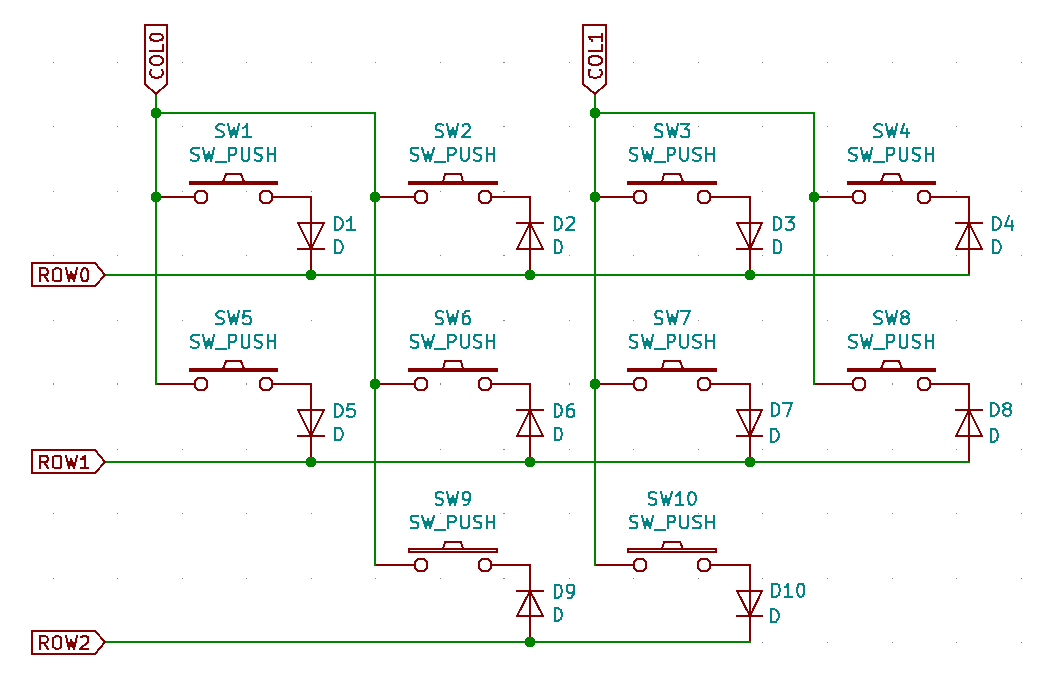
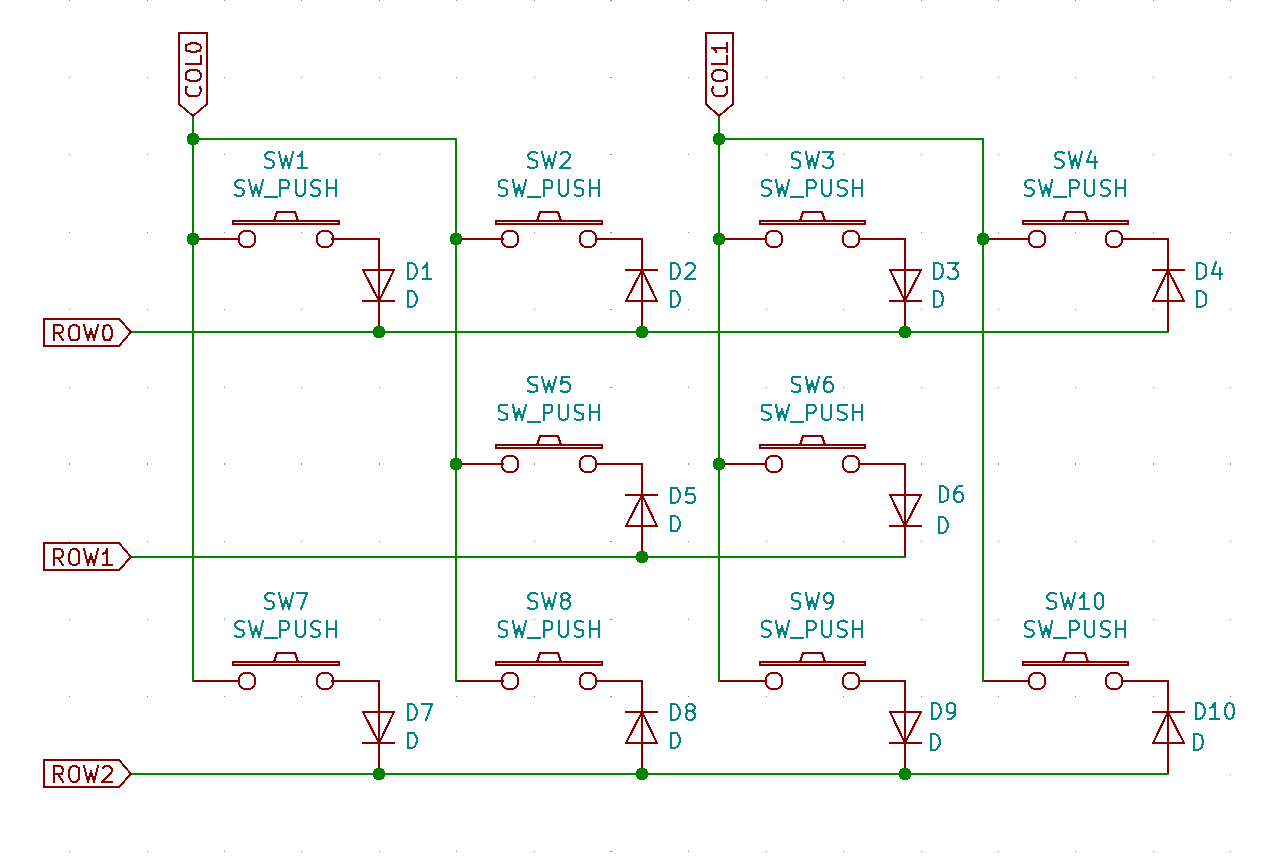
Fix duplex matrix

diff --git a/Keyscan-matrix.md b/Keyscan-matrix.md
@@ -55,47 +55,35 @@ col1 = 5
 kbd.init_matrix_pins(
   [
     [ [row0, col0], [col0, row0], [row0, col1], [col1, row0] ],
-    [ [row1, col0], [col0, row1], [row1, col1], [col1, row1] ],
-    [          nil, [col0, row2], [row2, col1],          nil ]
+    [          nil, [col0, row1], [row1, col1],          nil ]
+    [ [row2, col0], [col0, row2], [row2, col1], [col1, row2] ],
   ]
 )
 kbd.add_layer :default, %i(
       KC_1          KC_2          KC_3          KC_4
-      KC_A          KC_B          KC_C          KC_D
-                    KC_SPACE      KC_ENTER
+                    KC_A          KC_B
+      KC_LCTL       KC_SPACE      KC_ENTER      KC_RSFT
 )
 ```
 
 - In `Keyboard#init_matrix_pins`, put `nil` where an actual switch doesn't exist
 - you have to leave blanks in `Keyboard#add_layer` at the positions that correspond to `nil` as the above code shows
 
-### You can actually omit `nil` as below though,
-
-```ruby
-kbd.init_matrix_pins(
-  [
-    [ [row0, col0], [col0, row0], [row0, col1], [col1, row0] ],
-    [ [row1, col0], [col0, row1], [row1, col1], [col1, row1] ],
-    [               [col0, row2], [row2, col1]               ]
-  ]
-)
-```
-
-putting `nil` is mandatory if your keyboard is a split-type:
+### Split-type keyboard
 
 ```ruby
 kbd.split = true
 kbd.init_matrix_pins(
   [
     [ [row0, col0], [col0, row0], [row0, col1], [col1, row0] ],
-    [ [row1, col0], [col0, row1], [row1, col1], [col1, row1] ],
-    [          nil, [col0, row2], [row2, col1],          nil ]
+    [          nil, [col0, row1], [row1, col1],          nil ]
+    [ [row2, col0], [col0, row2], [row2, col1], [col1, row2] ],
   ]
 )
 kbd.add_layer :default, %i(
       KC_1          KC_2          KC_3          KC_4         KC_5          KC_6          KC_7          KC_8
-      KC_A          KC_B          KC_C          KC_D         KC_E          KC_F          KC_G          KC_H
-                    KC_SPACE      KC_ENTER                                 KC_RCTL       KC_RALT
+                    KC_A          KC_B                                     KC_C          KC_D
+      KC_LSFT       KC_LALT       KC_LCTL       KC_SPACE     KC_ENTER      KC_BSPACE     KC_RGUI       KC_RSFT
 )
 ```
 
